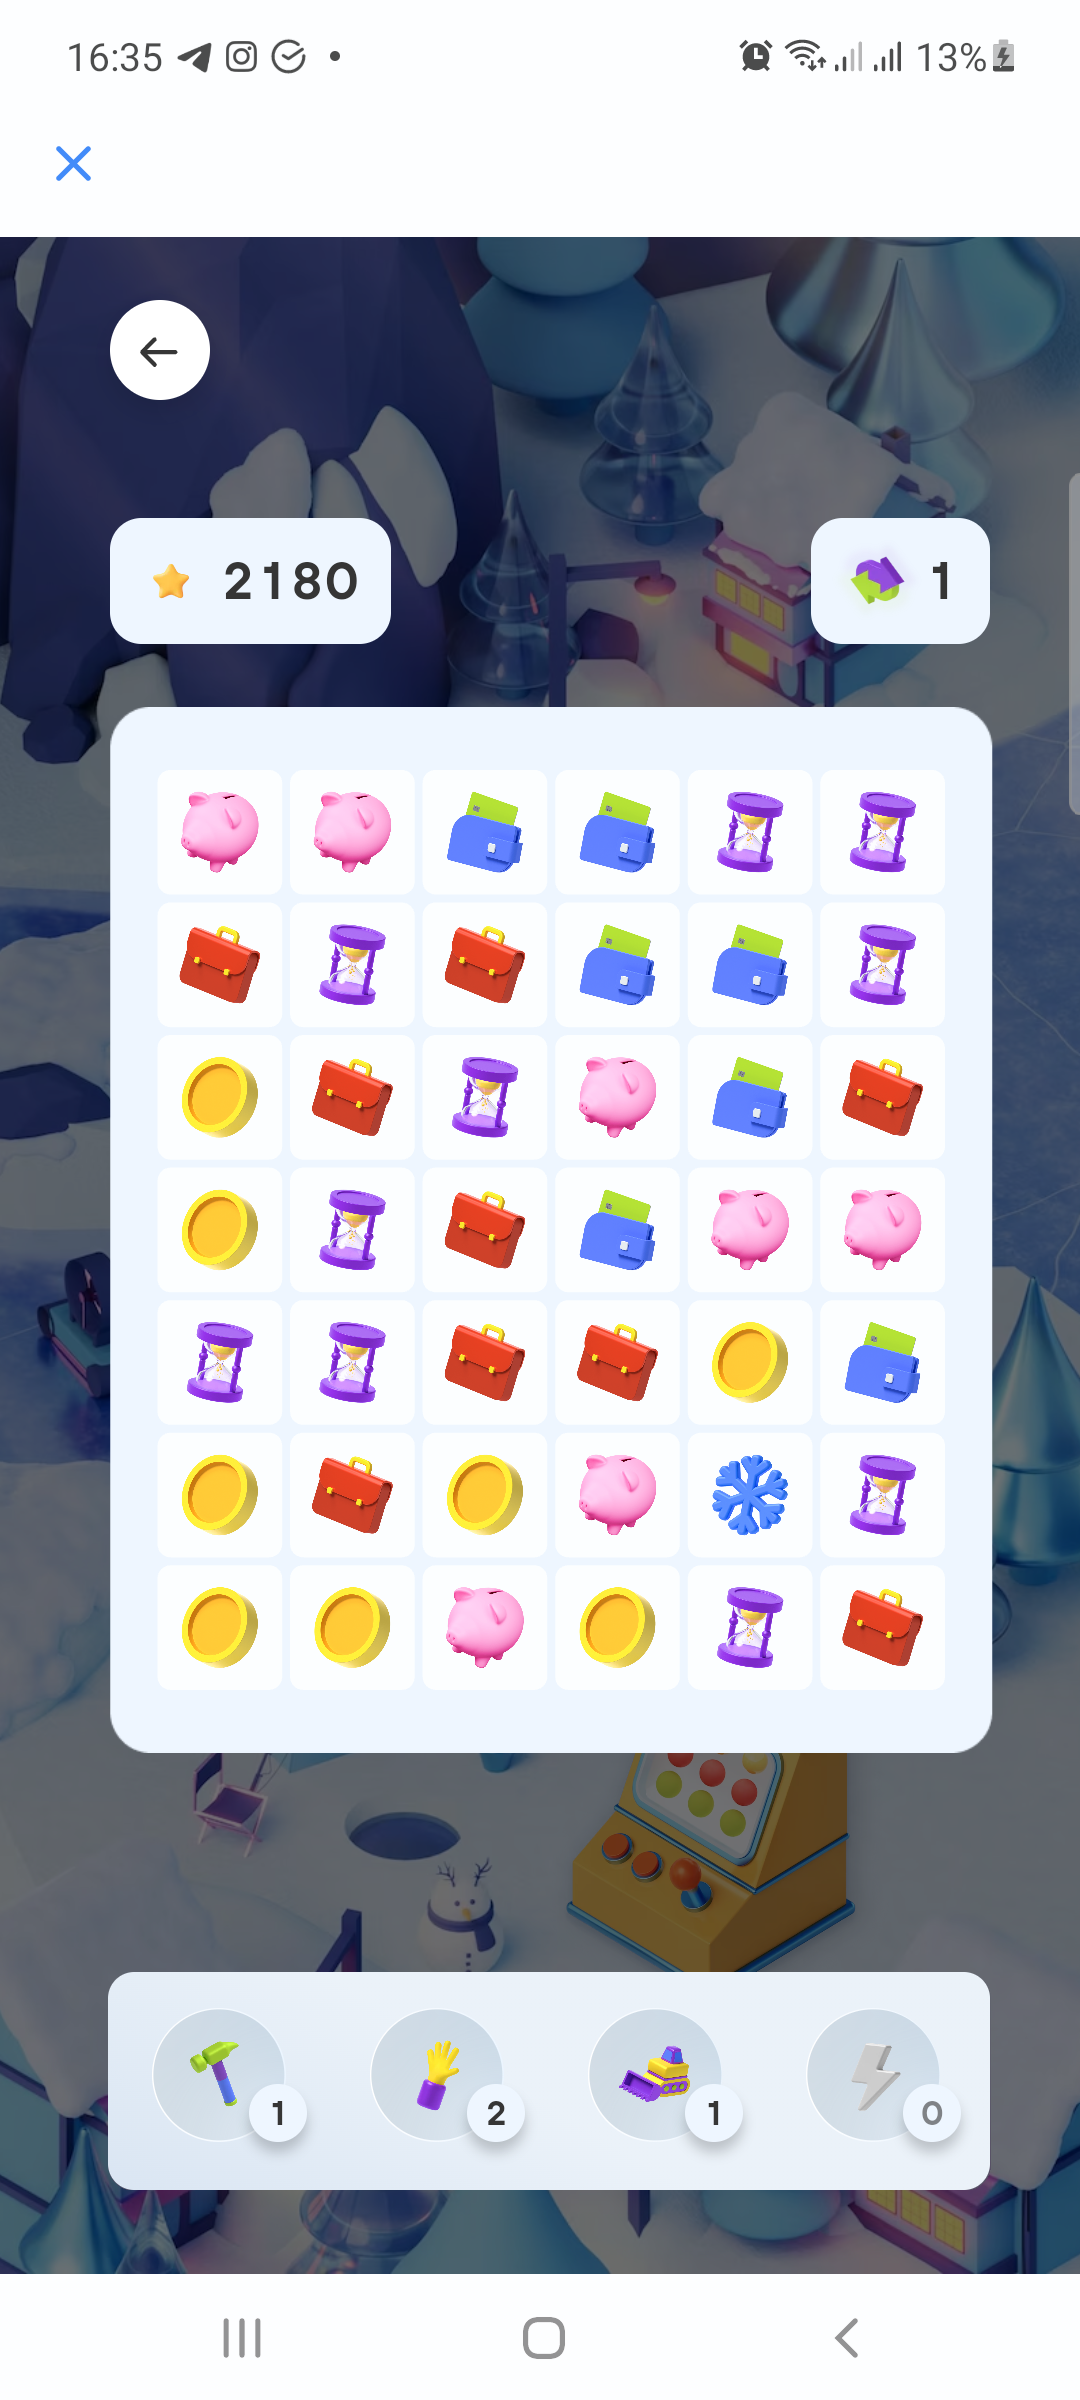
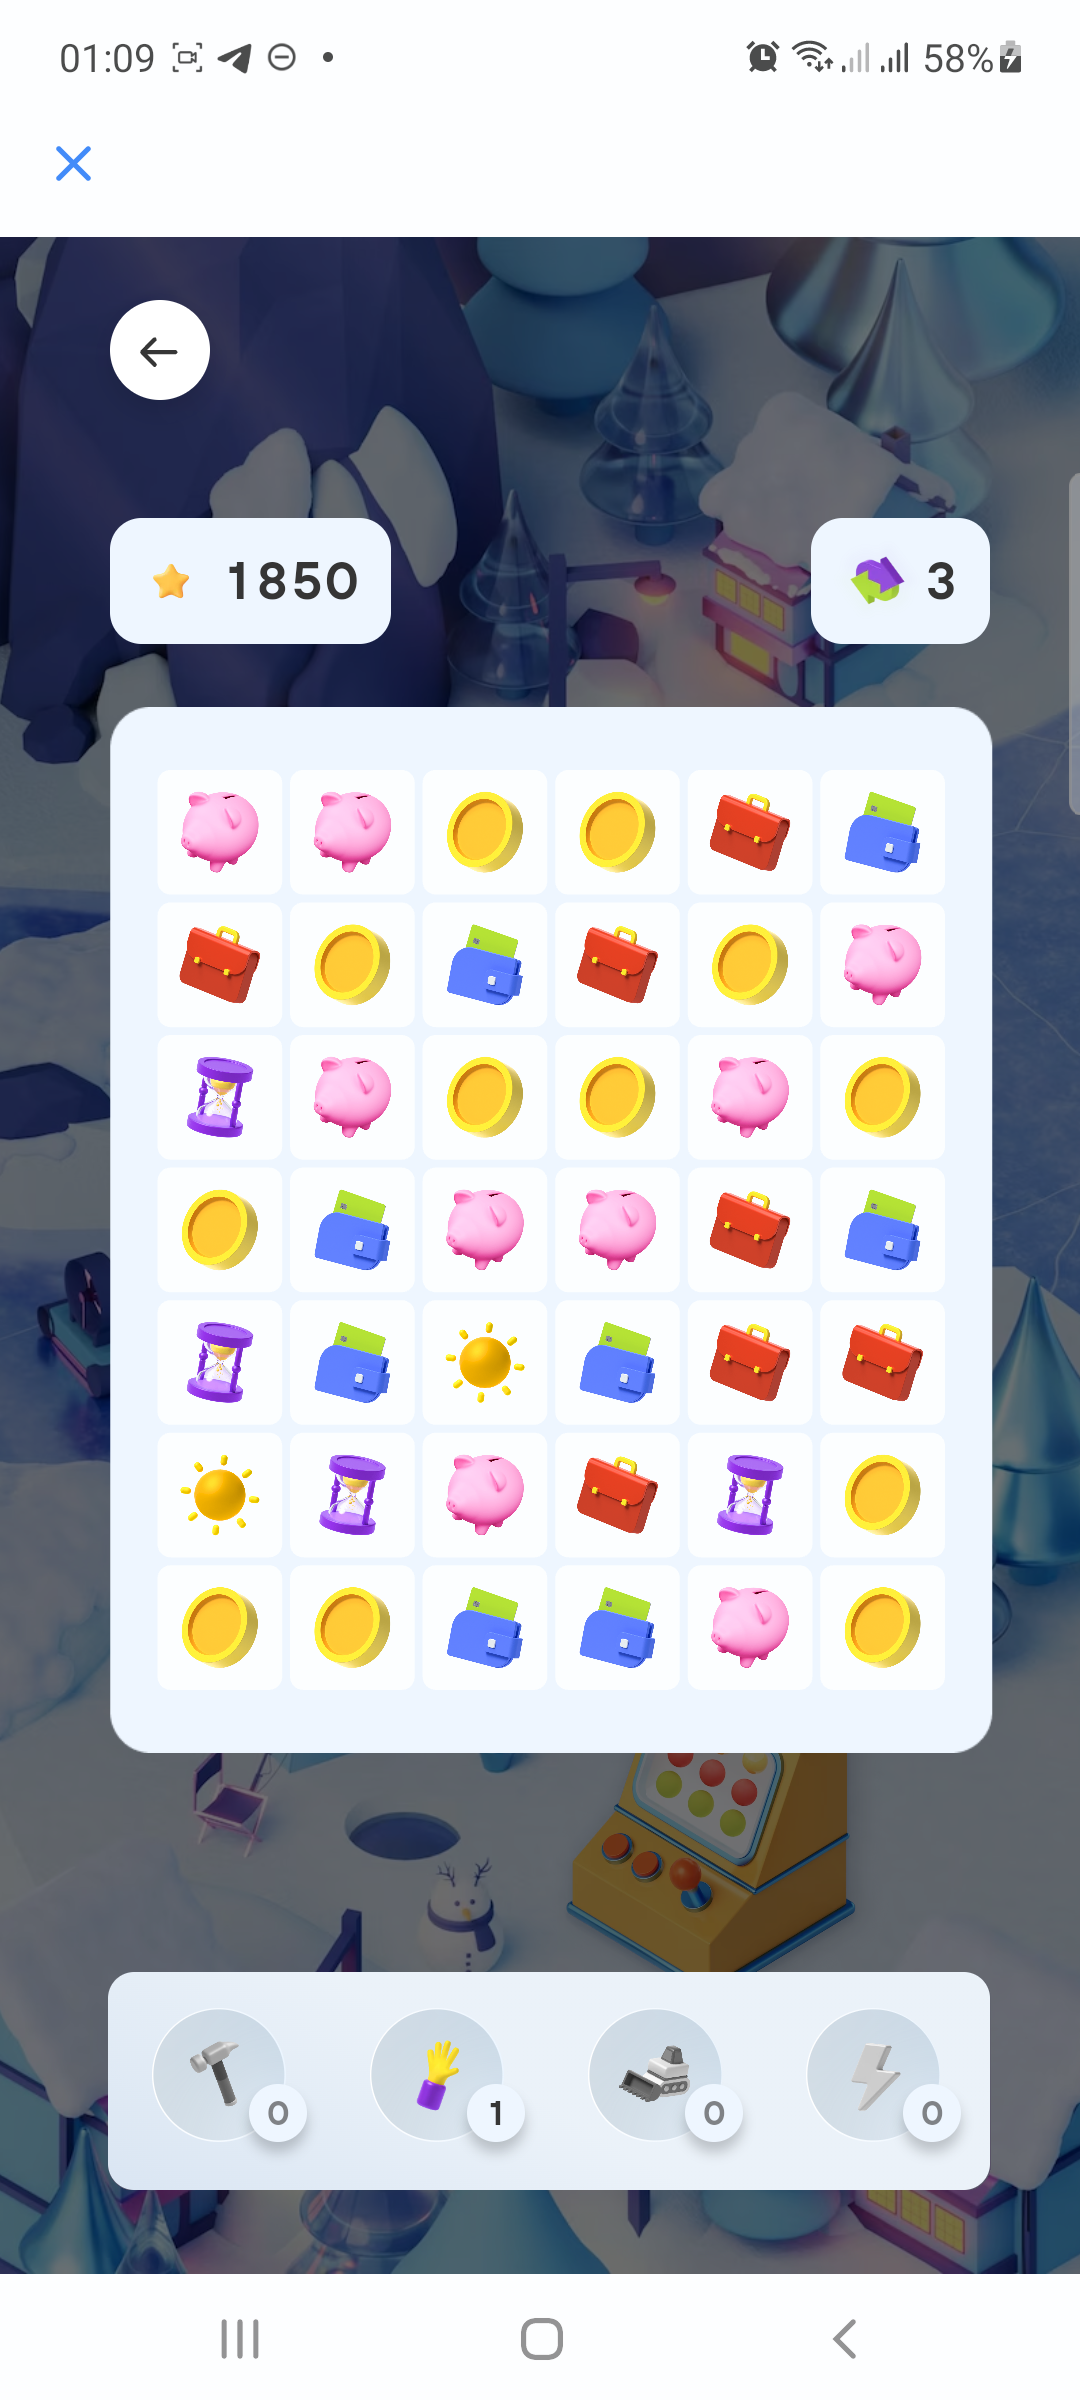
add some explode double boosters

diff --git a/src/gameModel.cpp b/src/gameModel.cpp
@@ -69,12 +69,10 @@ void GameModel::collectByTemplate(
 
 void GameModel::enableDebug() {
     // todo debug compile time
-        debug = true;
-    }
+    debug = true;
+}
 
-void GameModel::disableDebug() {
-        debug = true;
-    }
+void GameModel::disableDebug() { debug = true; }
 
 void GameModel::collectByTemplates(
     const std::vector<std::vector<std::vector<std::string>>>& templates,
@@ -190,8 +188,8 @@ StepProfit GameModel::updateAndReturnProfit() {
     return sum;
 }
 
-void GameModel::explodeIfBooster(int row, int col, StepProfit& profit,
-                                 std::string swapCellType) {
+void GameModel::explodeIfSingleBooster(int row, int col, StepProfit& profit,
+                                       std::string swapCellType) {
     const std::string typeName = matrix[row][col];
     if (isBoosterAt(row, col)) {
         matrix[row][col] = "x";
@@ -215,7 +213,7 @@ void GameModel::explodeIfBooster(int row, int col, StepProfit& profit,
 void GameModel::explodeCell(int row, int col, StepProfit& profit,
                             std::string swapCellType) {
     if (MatrixPoint{row, col}.isCorrect() && matrix[row][col] != "x") {
-        explodeIfBooster(row, col, profit, swapCellType);
+        explodeIfSingleBooster(row, col, profit, swapCellType);
         if (!isBoosterAt(row, col)) {
             setCellDirect(row, col, "x");
             profit.score += 10;
@@ -283,6 +281,62 @@ void GameModel::explodeSun(int row, int col, StepProfit& profit,
             }
         }
     }
+    profit.sun--;
+}
+
+void GameModel::explodeDoubleSnow(int row, int col, StepProfit& profit) {
+    explodeCell(row + 1, col, profit, "");
+    explodeCell(row - 1, col, profit, "");
+    explodeCell(row, col - 1, profit, "");
+    explodeCell(row, col + 1, profit, "");
+
+    explodeCell(row + 2, col, profit, "");
+    explodeCell(row - 2, col, profit, "");
+    explodeCell(row, col - 2, profit, "");
+    explodeCell(row, col + 2, profit, "");
+
+    explodeCell(row + 1, col + 1, profit, "");
+    explodeCell(row + 1, col - 1, profit, "");
+    explodeCell(row - 1, col - 1, profit, "");
+    explodeCell(row - 1, col + 1, profit, "");
+    profit.snow--;
+    profit.snow--;
+}
+
+void GameModel::explodeDoubleSun(int row, int col, StepProfit& profit) {
+    for (int i = 0; i < ROW_SIZE; ++i) {
+        for (int j = 0; j < COL_SIZE; ++j) {
+            explodeCell(i, j, profit, "");
+        }
+    }
+    profit.score -= 20;
+    profit.sun--;
+    profit.sun--;
+}
+
+void GameModel::explodeDoubleRocket(int row, int col, StepProfit& profit) {
+    explodeRocket(row, col, profit, true, "");
+    explodeRocket(row, col, profit, false, "");
+}
+
+void GameModel::explodeSnowAndSun(int row, int col, StepProfit& profit) {
+    explodeSnow(row, col, profit, "");
+
+    explodeCell(row - 3, col - 3, profit, "");
+    explodeCell(row - 2, col - 3, profit, "");
+    explodeCell(row - 3, col - 2, profit, "");
+
+    explodeCell(row - 3, col + 3, profit, "");
+    explodeCell(row - 2, col + 3, profit, "");
+    explodeCell(row - 3, col + 2, profit, "");
+
+    explodeCell(row + 3, col + 3, profit, "");
+    explodeCell(row + 2, col + 3, profit, "");
+    explodeCell(row + 3, col + 2, profit, "");
+
+    explodeCell(row + 3, col - 2, profit, "");
+    explodeCell(row + 2, col - 3, profit, "");
+    explodeCell(row + 3, col - 3, profit, "");
     profit.sun--;
 }
 

diff --git a/src/actions.cpp b/src/actions.cpp
@@ -8,7 +8,20 @@ StepProfit Action::getScoreAfterSwap(GameModel& gm, int currentRow,
     }
     if (gm.isBoosterAt(currentRow, currentCol) &&
         gm.isBoosterAt(newRow, newCol)) {
-        return {0, 0, 0, 0};  // ignore 2 boosters swap because unpredictable
+        std::set<std::string> types = {gm.getCell(currentRow, currentCol), gm.getCell(newRow, newCol)};
+        gm.setCellDirect(currentRow, currentCol, "x");
+        gm.setCellDirect(newRow, newCol, "x");
+        StepProfit profit;
+        if (types == DOUBLE_SUN) {
+            gm.explodeDoubleSun(newRow, newCol, profit);
+        } else if (types == DOUBLE_SNOW) {
+            gm.explodeDoubleSnow(newRow, newCol, profit);
+        } else if (types == SUN_AND_SNOW) {
+            gm.explodeSnowAndSun(newRow, newCol, profit);
+        } else if (types == DOUBLE_ROCKET) {
+            gm.explodeDoubleRocket(newRow, newCol, profit);
+        }
+        return profit;  // ignore 2 boosters swap because unpredictable
     }
     if (gm.getCell(currentRow, currentCol) == "x" ||
         gm.getCell(newRow, newCol) == "x") {
@@ -16,9 +29,9 @@ StepProfit Action::getScoreAfterSwap(GameModel& gm, int currentRow,
     }
     gm.swap(currentRow, currentCol, newRow, newCol);
     StepProfit profit;
-    gm.explodeIfBooster(currentRow, currentCol, profit,
+    gm.explodeIfSingleBooster(currentRow, currentCol, profit,
                         gm.getCell(newRow, newCol));
-    gm.explodeIfBooster(newRow, newCol, profit,
+    gm.explodeIfSingleBooster(newRow, newCol, profit,
                         gm.getCell(currentRow, currentCol));
     if (!profit.exists()) {
         return gm.updateAndReturnProfit();
@@ -61,7 +74,7 @@ void Action::calculateProfit(const GameModel& gm, StepOrder& stepOrder,
                 stepOrder.profit = {0, 0, 0, 0};
                 return;
             }
-            newGm.explodeIfBooster(point.row, point.col, profit);
+            newGm.explodeIfSingleBooster(point.row, point.col, profit);
             profit = profit + newGm.updateAndReturnProfit();
         } else if (typeAction == "[swap right]") {
             profit = getScoreAfterSwap(newGm, point.row, point.col, point.row,

diff --git a/src/stepOrderGenerator.cpp b/src/stepOrderGenerator.cpp
@@ -2,19 +2,19 @@
 
 StepOrderGenerator::StepOrderGenerator() {
     for (int i = 0; i < ROW_SIZE; ++i) {
-        basicActions.push_back({{"[hboom]"}, {{i, 0}}, {0, 0, 0, 0}});
+        // basicActions.push_back({{"[hboom]"}, {{i, 0}}, {0, 0, 0, 0}});
         for (int j = 0; j < COL_SIZE; ++j) {
             if (i < ROW_SIZE - 1) {
                 basicActions.push_back(
                     {{"[swap bottom]"}, {{i, j}}, {0, 0, 0, 0}});
-                basicActions.push_back(
-                    {{"[hand bottom]"}, {{i, j}}, {0, 0, 0, 0}});
+                // basicActions.push_back(
+                //     {{"[hand bottom]"}, {{i, j}}, {0, 0, 0, 0}});
             }
             if (j < COL_SIZE - 1) {
                 basicActions.push_back(
                     {{"[swap right]"}, {{i, j}}, {0, 0, 0, 0}});
-                basicActions.push_back(
-                    {{"[hand right]"}, {{i, j}}, {0, 0, 0, 0}});
+                // basicActions.push_back(
+                //     {{"[hand right]"}, {{i, j}}, {0, 0, 0, 0}});
             }
         }
     }
@@ -28,7 +28,7 @@ void StepOrderGenerator::fillUp(const GameModel& gm) {
             if (gm.isBoosterAt(i, j)) {
                 basicActions.push_back({{"[touch]"}, {{i, j}}, {0, 0, 0, 0}});
             } else {
-                basicActions.push_back({{"[hammer]"}, {{i, j}}, {0, 0, 0, 0}});
+                // basicActions.push_back({{"[hammer]"}, {{i, j}}, {0, 0, 0, 0}});
             }
         }
     }
@@ -36,12 +36,7 @@ void StepOrderGenerator::fillUp(const GameModel& gm) {
 }
 
 std::vector<StepOrder> StepOrderGenerator::generate(int deep) {
-    std::vector<StepOrder> result;
-    if (deep >= 1) {
-        for (int i = 0; i < basicActions.size(); ++i) {
-            result.push_back(basicActions[i]);
-        }
-    }
+    std::vector<StepOrder> result(basicActions.begin(), basicActions.end());
     if (deep >= 2) {
         size_t predictedSize = 0;
         for (int d = 1; d <= deep; ++d) {

diff --git a/include/gameModel.h b/include/gameModel.h
@@ -47,8 +47,8 @@ class GameModel {
 
     StepProfit updateAndReturnProfit();
 
-    void explodeIfBooster(int row, int col, StepProfit& profit,
-                          std::string swapCellType = "");
+    void explodeIfSingleBooster(int row, int col, StepProfit& profit,
+                                std::string swapCellType = "");
 
     void explodeCell(int row, int col, StepProfit& profit,
                      std::string swapCellType);
@@ -61,6 +61,14 @@ class GameModel {
 
     void explodeSun(int row, int col, StepProfit& profit,
                     std::string swapCellType);
+
+    void explodeDoubleSnow(int row, int col, StepProfit& profit);
+
+    void explodeDoubleSun(int row, int col, StepProfit& profit);
+
+    void explodeDoubleRocket(int row, int col, StepProfit& profit);
+
+    void explodeSnowAndSun(int row, int col, StepProfit& profit);
 
     bool isBoosterAt(int row, int col) const;
 

diff --git a/include/constants.h b/include/constants.h
@@ -2,6 +2,7 @@
 #include <map>
 #include <string>
 #include <vector>
+#include <set>
 const int ROW_SIZE = 7;
 const int COL_SIZE = 6;
 
@@ -23,6 +24,11 @@ const std::map<std::string, int> BOOSTER_COST_MAPPER = {
     {"[swap bottom]", 25}, {"[hand right]", 50}, {"[hand bottom]", 50},
     {"[hboom]", 100},
 };
+
+const std::set<std::string> DOUBLE_SUN = {"o", "o"};
+const std::set<std::string> DOUBLE_SNOW = {"s", "s"};
+const std::set<std::string> DOUBLE_ROCKET = {"~", "|"};
+const std::set<std::string> SUN_AND_SNOW = {"o", "s"};
 
 namespace FiguresTemplates {
 static const std::vector<std::vector<std::vector<std::string>>>&
